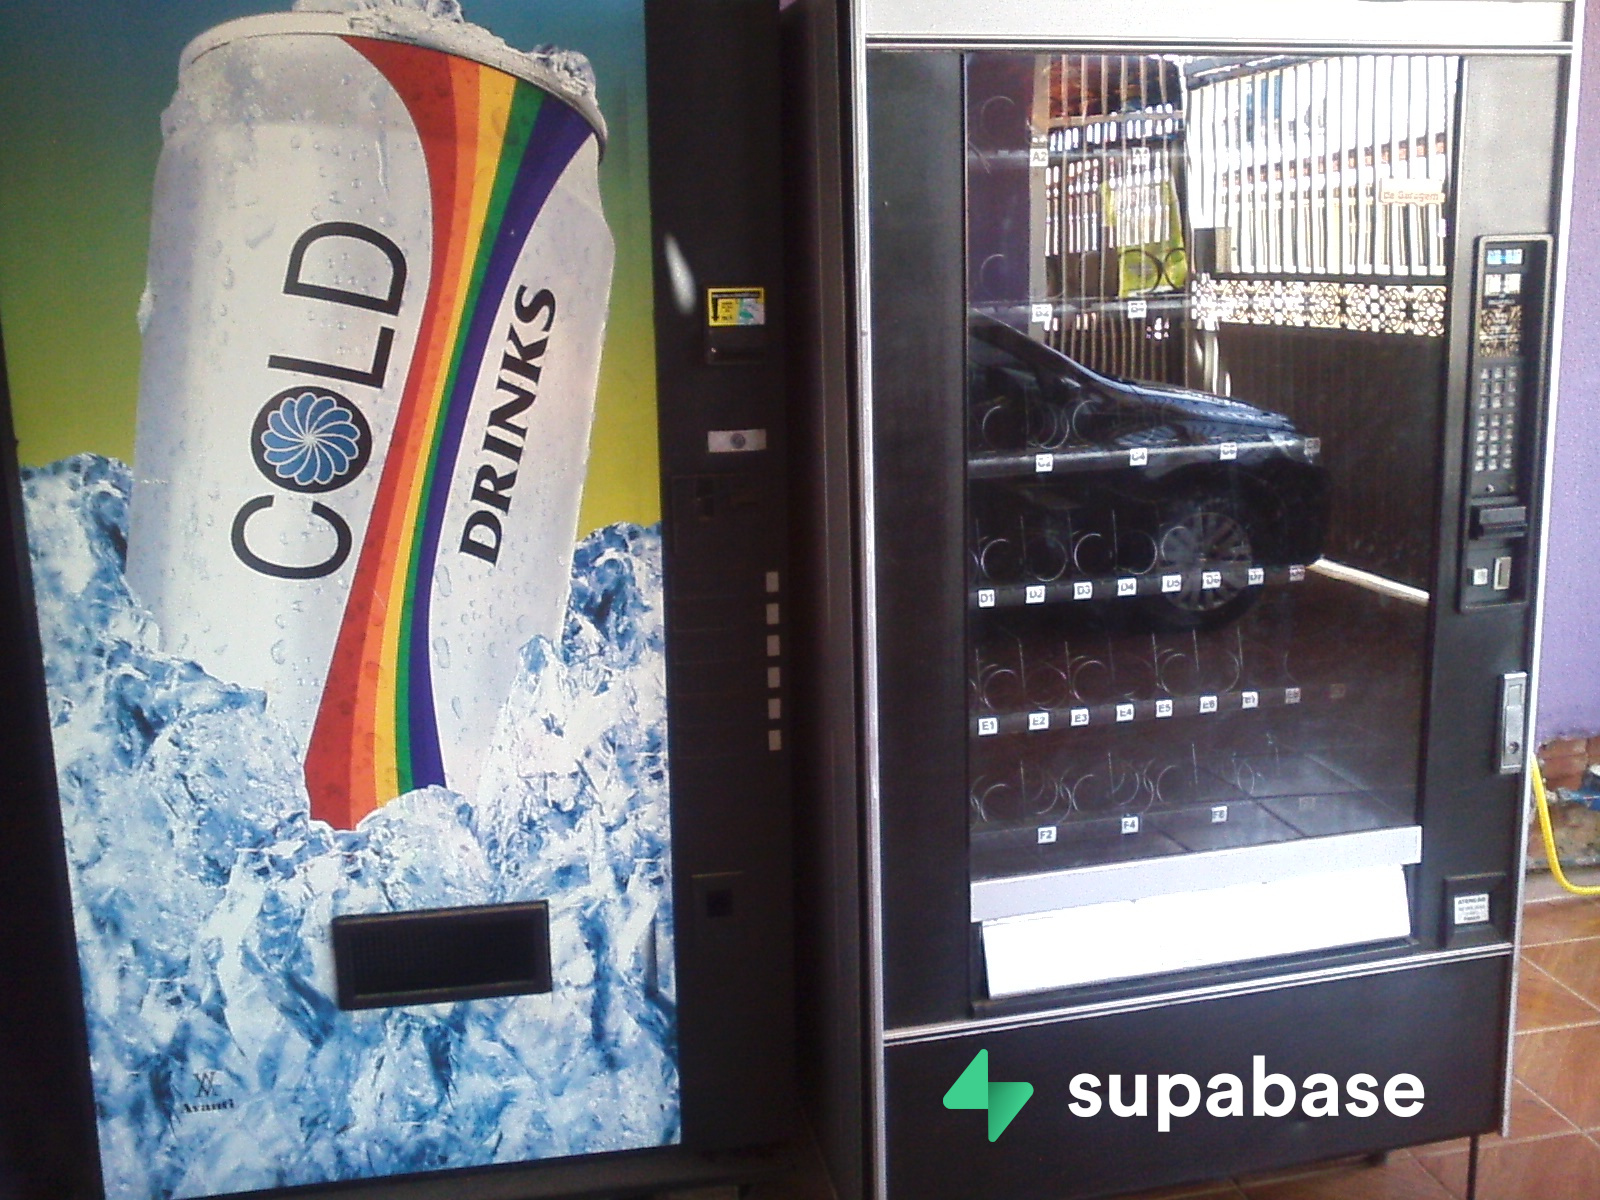
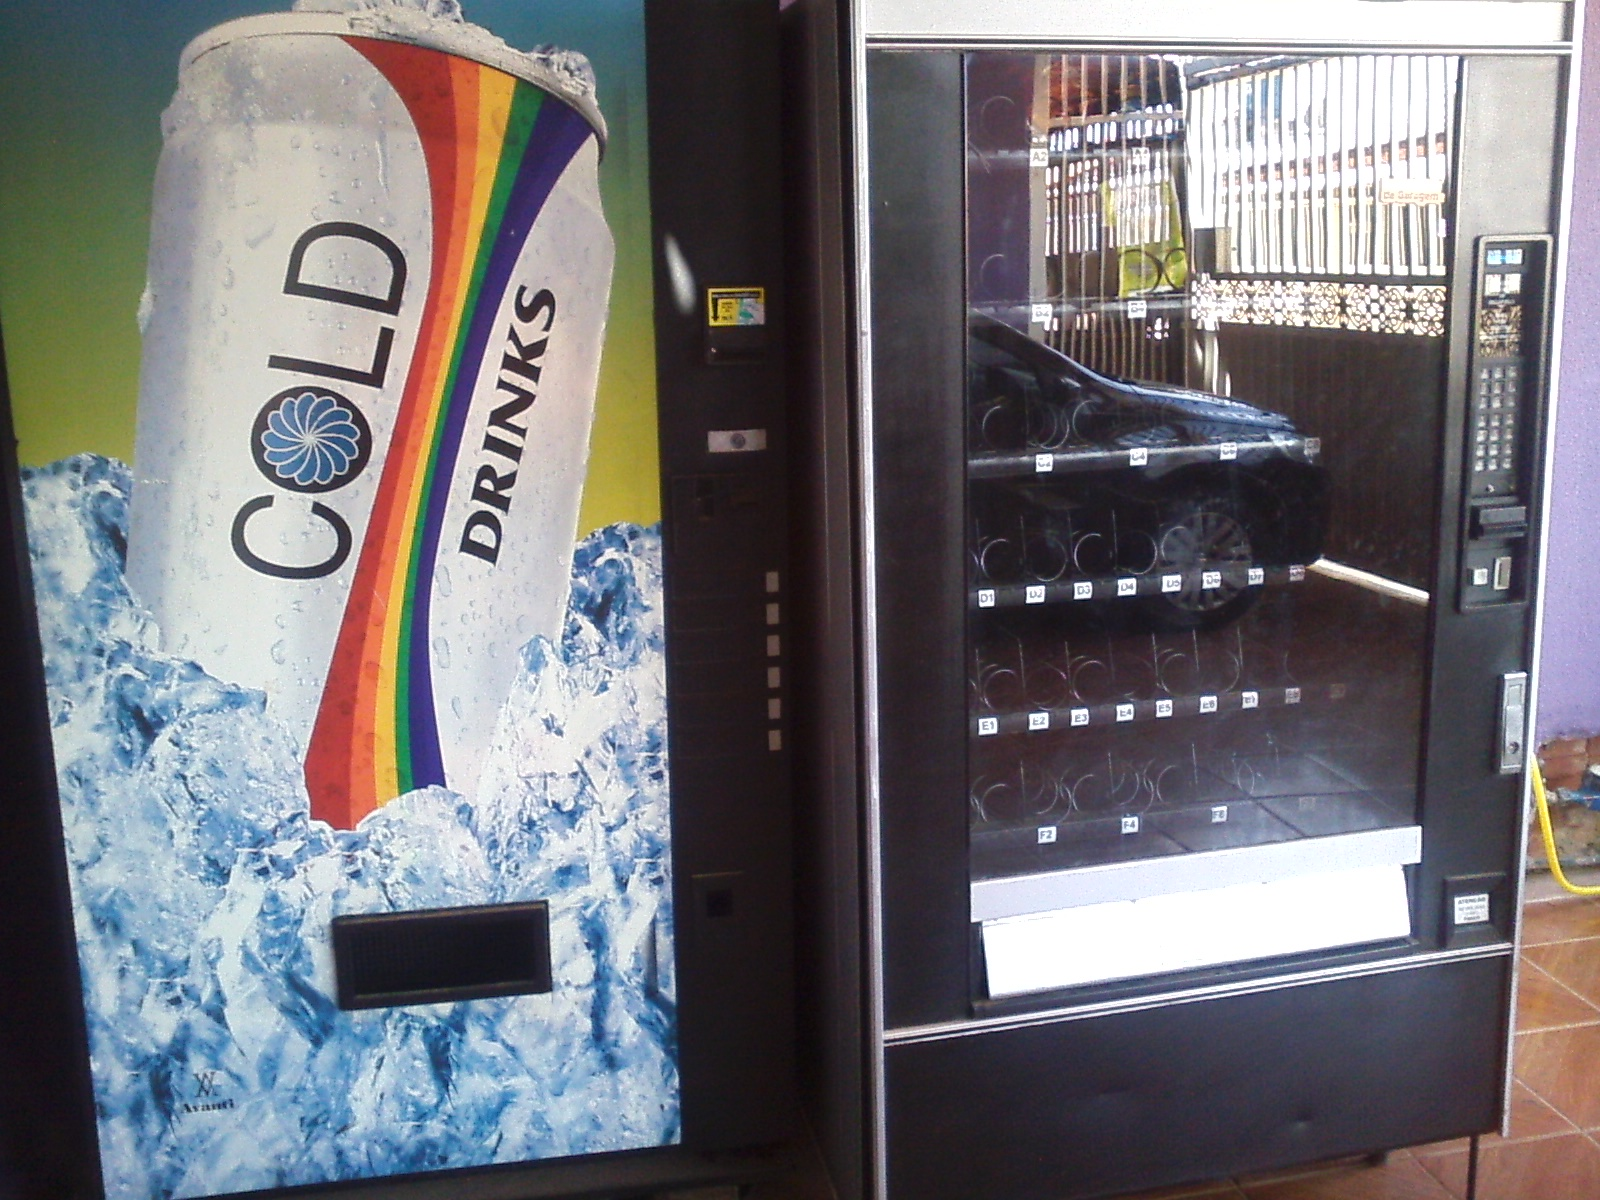
Updating readme

Changed region(s): [[0.5938, 0.8633, 0.9062, 0.9558]]

diff --git a/README.md b/README.md
@@ -1,7 +1,11 @@
+
 # MDB Protocol Implementation for Cashless Vending Machine with ESP32 and KiCad.
+
 This is an open-source project dedicated to implementing the MDB (Multi-Drop Bus) protocol for cashless vending machines, using ESP32 as the main platform and KiCad for PCB design. The MDB protocol is widely used in vending machines for communication between devices, enabling integration with cashless payment systems.
 
 The system also supports receiving credits over **MQTT** or **Bluetooth**, allowing integration with mobile apps, web backends, or other IoT platforms.
+
+![MDB Cashless](1411051686640.jpg)
 
 # Key Features:
 - Implementation of the MDB protocol for communication with vending machines
@@ -16,12 +20,12 @@ The system also supports receiving credits over **MQTT** or **Bluetooth**, allow
 - Before submitting a pull request, make sure the code complies with the style and quality guidelines defined in the project
 - Help us improve documentation by adding usage examples, installation instructions, and any other relevant information
 
-![MDB Cashless](1411051686640.jpg)
 ![MDB Cashless](mdb-slave-esp32s3_pcb.png)
+[![PCBWay](https://www.pcbway.com/project/img/images/frompcbway-1220.png)](https://www.pcbway.com/project/shareproject/mdb_esp32_cashless_bc6bf8d8.html)
 
 ---
 
-## Sending Credit via Supabase API (MQTT)
+[![Made with Supabase](https://supabase.com/badge-made-with-supabase-dark.svg)](https://supabase.com)
 
 ### 1⃣ Get a Bearer Token
 
@@ -32,7 +36,7 @@ curl -X POST 'https://supabase.vmflow.xyz/auth/v1/token?grant_type=password' \
 -d '{ "email": "your_email@domain.xyz", "password": "your_password"}'
 ```
 
-### 2⃣ Send Credit to the Machine
+### 2⃣ Send Credit to the Machine over MQTT
 
 ```bash
 curl -X POST 'https://supabase.vmflow.xyz/functions/v1/send-credit' \
@@ -59,8 +63,6 @@ curl -X GET 'https://supabase.vmflow.xyz/rest/v1/embeddeds' \
 ```
 
 ---
-
-[![PCBWay](https://www.pcbway.com/project/img/images/frompcbway-1220.png)](https://www.pcbway.com/project/shareproject/mdb_esp32_cashless_bc6bf8d8.html)
 
 ## License
 
